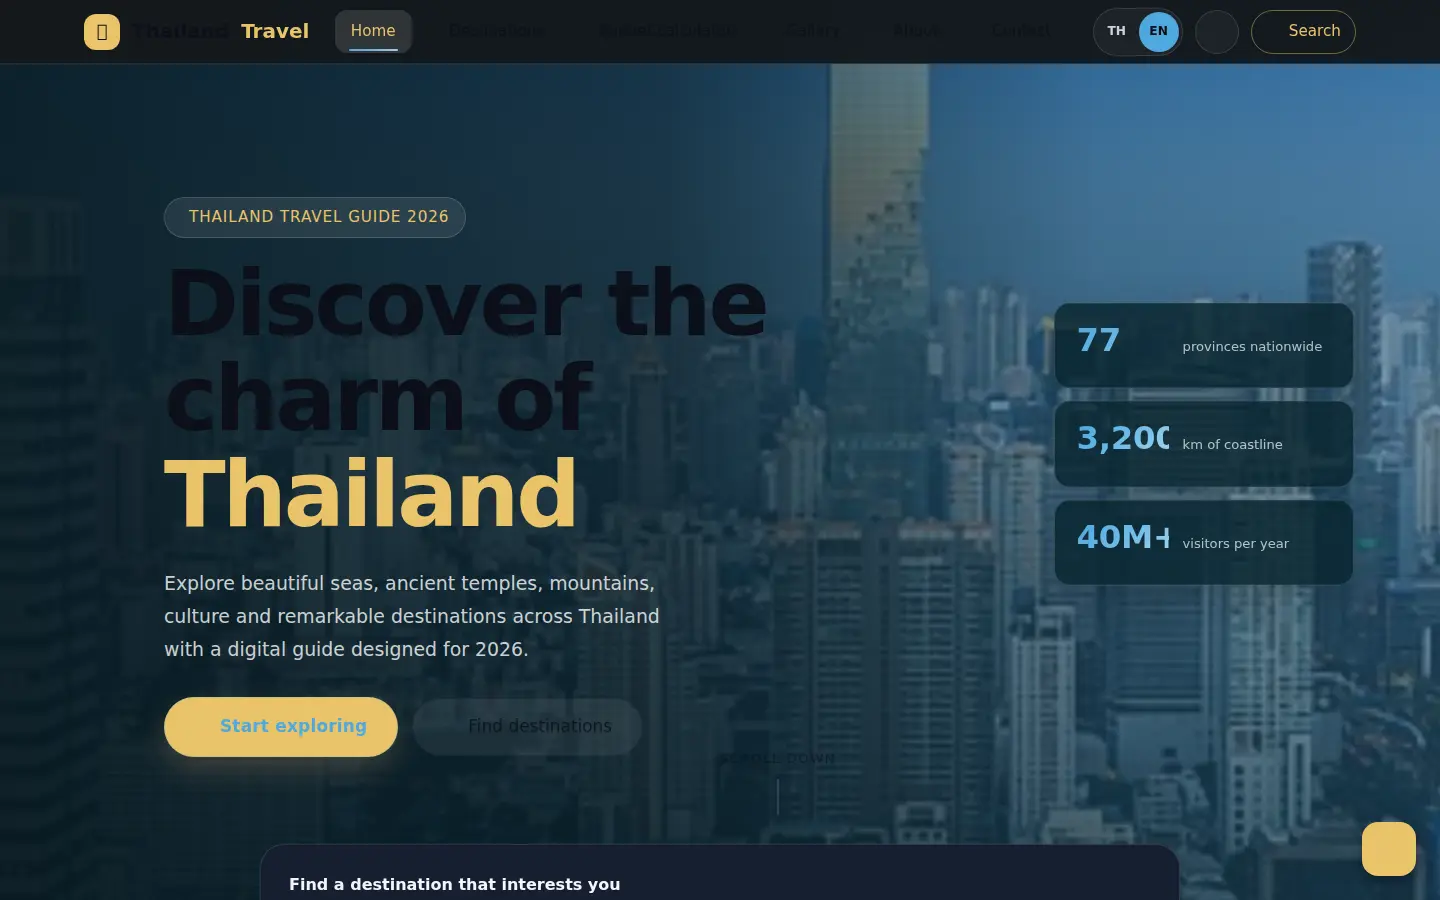
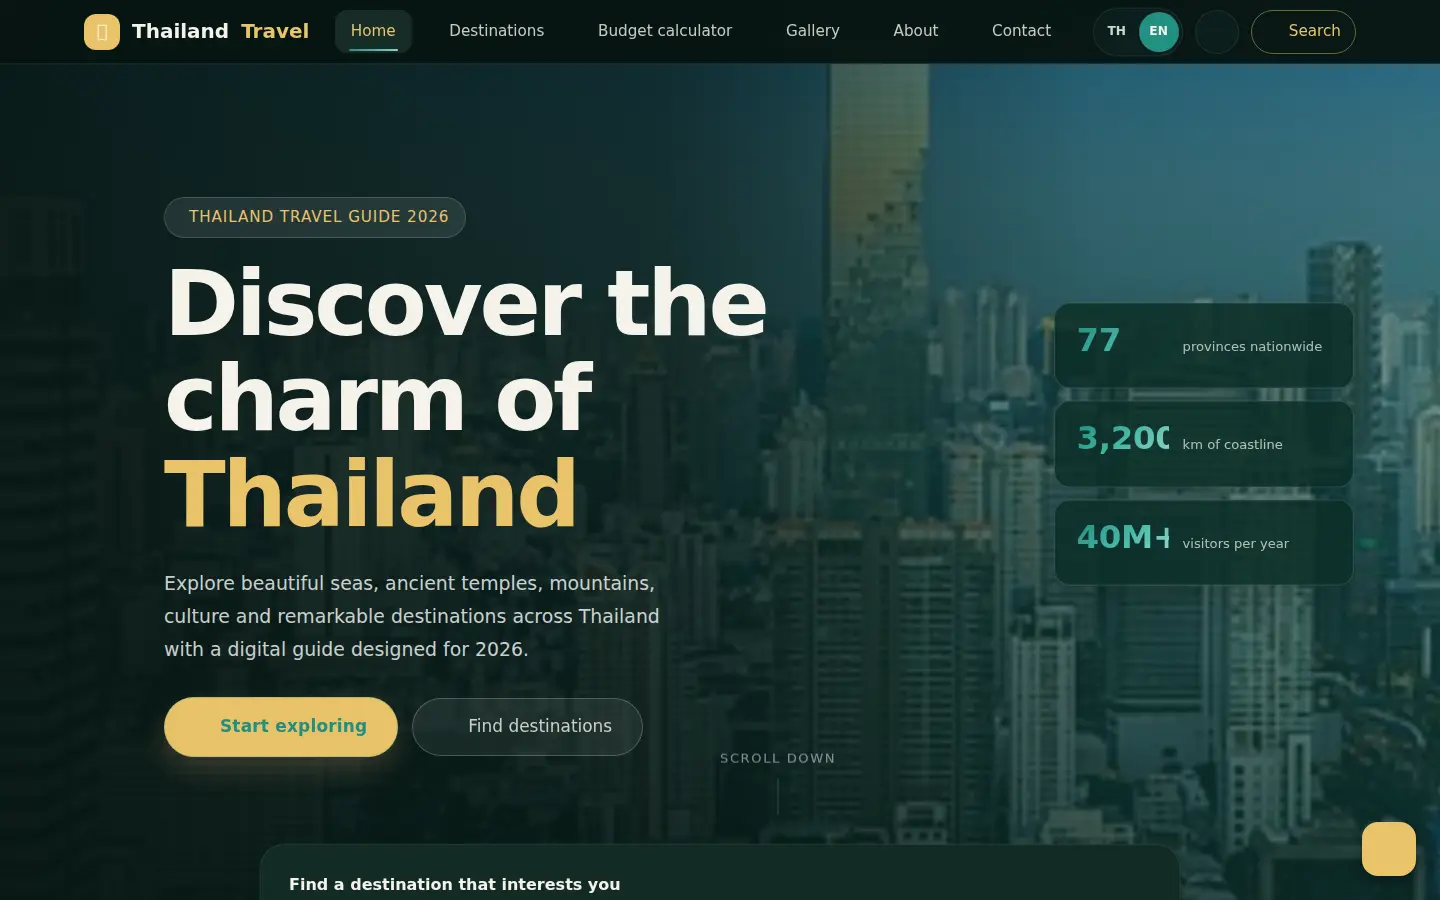
Unify light and dark color system

diff --git a/css/style.css b/css/style.css
@@ -6,9 +6,9 @@
 /* ─── ROOT: LIGHT THEME (default) ──────────────────────────── */
 :root {
   /* ======= TIER 1: BRAND PRIMITIVES (immutable) ======= */
-  --color-emerald-dark:   #0A9396;
-  --color-emerald-base:   #18A7AA;
-  --color-emerald-light:  #57C6C8;
+  --color-emerald-dark:   #0B6B66;
+  --color-emerald-base:   #0F8179;
+  --color-emerald-light:  #68BBB0;
 
   --color-gold-base:      #D4A373;
   --color-gold-light:     #E2B88F;
@@ -49,19 +49,19 @@
   /* ======= TIER 4: TEXT & FOREGROUND (improved contrast) ======= */
   /* Light mode text hierarchy — stronger contrast for accessibility */
   --color-text-primary:   #1A1C1E;   /* HIGH CONTRAST */
-  --color-text-secondary: #454B52;   /* body/support */
-  --color-text-tertiary:  #76808A;   /* subtle labels */
+  --color-text-secondary: #3F4B49;   /* body/support */
+  --color-text-tertiary:  #66736F;   /* subtle labels */
 
-  --color-text-disabled:  #B2BAC4;   /* New: subtle interactive disabled state */
+  --color-text-disabled:  #98A39F;   /* New: subtle interactive disabled state */
   --color-text-inverse:   #FFFFFF;   /* New: text on dark backgrounds */
 
   /* ======= TIER 5: OVERLAYS & GLASS EFFECTS ======= */
   /* Theme-aware glass effects (emerald-tinted light) */
-  --color-overlay-xs:     rgba(10,147,150,.04);
-  --color-overlay-sm:     rgba(10,147,150,.08);
-  --color-overlay-md:     rgba(10,147,150,.14);
-  --color-overlay-lg:     rgba(10,147,150,.22);
-  --color-overlay-xl:     rgba(10,147,150,.35);
+  --color-overlay-xs:     rgba(11,107,102,.04);
+  --color-overlay-sm:     rgba(11,107,102,.08);
+  --color-overlay-md:     rgba(11,107,102,.14);
+  --color-overlay-lg:     rgba(11,107,102,.22);
+  --color-overlay-xl:     rgba(11,107,102,.35);
 
   /* Scrim/darkening overlays */
   --color-scrim-md:       rgba(11,15,25,.65);
@@ -72,12 +72,12 @@
   --color-border-light:   var(--color-overlay-sm);
   --color-border-focus:   var(--color-primary);
 
-  --color-focus-ring:     rgba(10,147,150,.20);
+  --color-focus-ring:     rgba(11,107,102,.20);
 
   /* ======= TIER 7: GRADIENTS ======= */
-  --gradient-primary:     linear-gradient(135deg, #0A9396 0%, #18A7AA 55%, #57C6C8 100%);
+  --gradient-primary:     linear-gradient(135deg, #0B6B66 0%, #0F8179 55%, #68BBB0 100%);
   --gradient-secondary:   linear-gradient(135deg, #E2B88F 0%, #D4A373 100%);
-  --gradient-hero-overlay: linear-gradient(135deg, rgba(11,15,25,.80) 0%, rgba(11,15,25,.45) 55%, rgba(10,147,150,.20) 100%);
+  --gradient-hero-overlay: linear-gradient(135deg, rgba(7,24,21,.84) 0%, rgba(7,24,21,.50) 55%, rgba(11,107,102,.20) 100%);
   --gradient-card-overlay: linear-gradient(180deg, transparent 18%, rgba(11,15,25,.88) 100%);
 
   /* ======= TIER 8: SHADOWS ======= */
@@ -93,8 +93,8 @@
   --shadow-xl:    var(--shadow-5);
 
   /* Glow effects for interactive elements */
-  --shadow-focus: 0 0 0 3px rgba(10,147,150,.16);
-  --shadow-glow:  0 8px 24px rgba(10,147,150,.18);
+  --shadow-focus: 0 0 0 3px rgba(11,107,102,.16);
+  --shadow-glow:  0 8px 24px rgba(11,107,102,.18);
 
   /* ======= TIER 9: RADIUS & LAYOUT ======= */
   --radius-2xs: 2px;
@@ -245,18 +245,18 @@
   --scrim-lg:       var(--color-scrim-lg);
 
   /* Color-specific rgba helpers for components */
-  --accent-04:  rgba(10,147,150,.04);
-  --accent-07:  rgba(10,147,150,.07);
-  --accent-08:  rgba(10,147,150,.08);
-  --accent-12:  rgba(10,147,150,.12);
-  --accent-14:  rgba(10,147,150,.14);
-  --accent-20:  rgba(10,147,150,.20);
-  --accent-25:  rgba(10,147,150,.25);
-  --accent-28:  rgba(10,147,150,.28);
-  --accent-30:  rgba(10,147,150,.30);
-  --accent-35:  rgba(10,147,150,.35);
-  --accent-40:  rgba(10,147,150,.40);
-  --accent-45:  rgba(10,147,150,.45);
+  --accent-04:  rgba(11,107,102,.04);
+  --accent-07:  rgba(11,107,102,.07);
+  --accent-08:  rgba(11,107,102,.08);
+  --accent-12:  rgba(11,107,102,.12);
+  --accent-14:  rgba(11,107,102,.14);
+  --accent-20:  rgba(11,107,102,.20);
+  --accent-25:  rgba(11,107,102,.25);
+  --accent-28:  rgba(11,107,102,.28);
+  --accent-30:  rgba(11,107,102,.30);
+  --accent-35:  rgba(11,107,102,.35);
+  --accent-40:  rgba(11,107,102,.40);
+  --accent-45:  rgba(11,107,102,.45);
 
   --blue:           #4EA8DE;
   --blue-14:        rgba(78,168,222,.14);
@@ -281,10 +281,10 @@
 
 /* ─── DARK THEME ─────────────────────────────────────────── */
 html[data-theme="dark"] {
-  /* ======= BRAND COLORS: brightened for dark context ======= */
-  --color-emerald-dark:   #4EA8DE;
-  --color-emerald-base:   #70BCE7;
-  --color-emerald-light:  #9ED4EF;
+  /* ======= BRAND COLORS: emerald remains the identity in both modes ======= */
+  --color-emerald-dark:   #238F82;
+  --color-emerald-base:   #49B9A9;
+  --color-emerald-light:  #8BD8CC;
 
   --color-gold-base:      #E9C46A;
   --color-gold-light:     #F1D38F;
@@ -314,27 +314,27 @@ html[data-theme="dark"] {
   --chart-blue:           var(--blue);
 
   /* ======= DARK SURFACES ======= */
-  --color-bg-primary:     #0B0F19;   /* dark page bg */
-  --color-bg-secondary:   #10182A;   /* dark sections */
-  --color-bg-tertiary:    #161F30;   /* dark cards */
+  --color-bg-primary:     #071512;   /* deep emerald ink */
+  --color-bg-secondary:   #0C1E1A;   /* dark sections */
+  --color-bg-tertiary:    #132A24;   /* dark cards */
 
-  --color-bg-primary-rgb:   11,15,25;
-  --color-bg-tertiary-rgb:  22,31,48;
+  --color-bg-primary-rgb:   7,21,18;
+  --color-bg-tertiary-rgb:  19,42,36;
 
   /* ======= DARK TEXT (light on dark) ======= */
-  --color-text-primary:   #F4F6F9;   /* HIGH CONTRAST light text */
-  --color-text-secondary: #C9D2E1;   /* muted body text */
-  --color-text-tertiary:  #9FAEC3;   /* subtle labels */
+  --color-text-primary:   #F5F2E9;   /* warm high-contrast text */
+  --color-text-secondary: #CED8D2;   /* muted body text */
+  --color-text-tertiary:  #99ADA6;   /* subtle labels */
 
-  --color-text-disabled:  #6F7E94;   /* disabled state */
-  --color-text-inverse:   #0B0F19;   /* text on light backgrounds */
+  --color-text-disabled:  #647B73;   /* disabled state */
+  --color-text-inverse:   #F5F2E9;   /* text on imagery and deep brand surfaces */
 
   /* ======= DARK OVERLAYS (light tinted) ======= */
-  --color-overlay-xs:     rgba(255,255,255,.04);
-  --color-overlay-sm:     rgba(255,255,255,.07);
-  --color-overlay-md:     rgba(255,255,255,.12);
-  --color-overlay-lg:     rgba(255,255,255,.18);
-  --color-overlay-xl:     rgba(255,255,255,.25);
+  --color-overlay-xs:     rgba(139,216,204,.04);
+  --color-overlay-sm:     rgba(139,216,204,.07);
+  --color-overlay-md:     rgba(139,216,204,.12);
+  --color-overlay-lg:     rgba(139,216,204,.18);
+  --color-overlay-xl:     rgba(139,216,204,.25);
 
   /* Dark scrims */
   --color-scrim-md:       rgba(4,9,8,.75);
@@ -345,13 +345,13 @@ html[data-theme="dark"] {
   --color-border-light:   var(--color-overlay-sm);
   --color-border-focus:   var(--color-primary);
 
-  --color-focus-ring:     rgba(78,168,222,.24);
+  --color-focus-ring:     rgba(73,185,169,.24);
 
   /* ======= DARK GRADIENTS ======= */
-  --gradient-primary:     linear-gradient(135deg, #4EA8DE 0%, #70BCE7 55%, #9ED4EF 100%);
+  --gradient-primary:     linear-gradient(135deg, #238F82 0%, #49B9A9 55%, #8BD8CC 100%);
   --gradient-secondary:   linear-gradient(135deg, #F1D38F 0%, #E9C46A 100%);
-  --gradient-hero-overlay: linear-gradient(135deg, rgba(11,15,25,.88) 0%, rgba(11,15,25,.55) 55%, rgba(78,168,222,.18) 100%);
-  --gradient-card-overlay: linear-gradient(180deg, transparent 18%, rgba(11,15,25,.90) 100%);
+  --gradient-hero-overlay: linear-gradient(135deg, rgba(7,21,18,.90) 0%, rgba(7,21,18,.60) 55%, rgba(35,143,130,.18) 100%);
+  --gradient-card-overlay: linear-gradient(180deg, transparent 18%, rgba(7,21,18,.92) 100%);
 
   /* ======= DARK SHADOWS ======= */
   --shadow-1:     0 2px 6px rgba(0,0,0,.35);
@@ -365,22 +365,22 @@ html[data-theme="dark"] {
   --shadow-lg:    var(--shadow-4);
   --shadow-xl:    var(--shadow-5);
 
-  --shadow-focus: 0 0 0 3px rgba(78,168,222,.22);
-  --shadow-glow:  0 8px 24px rgba(78,168,222,.24);
+  --shadow-focus: 0 0 0 3px rgba(73,185,169,.22);
+  --shadow-glow:  0 8px 24px rgba(73,185,169,.24);
 
   /* Update re-calibrated accent-rgba helpers for dark context */
-  --accent-04:  rgba(78,168,222,.04);
-  --accent-07:  rgba(78,168,222,.07);
-  --accent-08:  rgba(78,168,222,.08);
-  --accent-12:  rgba(78,168,222,.12);
-  --accent-14:  rgba(78,168,222,.14);
-  --accent-20:  rgba(78,168,222,.20);
-  --accent-25:  rgba(78,168,222,.25);
-  --accent-28:  rgba(78,168,222,.28);
-  --accent-30:  rgba(78,168,222,.30);
-  --accent-35:  rgba(78,168,222,.35);
-  --accent-40:  rgba(78,168,222,.40);
-  --accent-45:  rgba(78,168,222,.45);
+  --accent-04:  rgba(73,185,169,.04);
+  --accent-07:  rgba(73,185,169,.07);
+  --accent-08:  rgba(73,185,169,.08);
+  --accent-12:  rgba(73,185,169,.12);
+  --accent-14:  rgba(73,185,169,.14);
+  --accent-20:  rgba(73,185,169,.20);
+  --accent-25:  rgba(73,185,169,.25);
+  --accent-28:  rgba(73,185,169,.28);
+  --accent-30:  rgba(73,185,169,.30);
+  --accent-35:  rgba(73,185,169,.35);
+  --accent-40:  rgba(73,185,169,.40);
+  --accent-45:  rgba(73,185,169,.45);
 
   --blue:           #4EA8DE;
   --blue-14:        rgba(78,168,222,.14);

diff --git a/css/components.css b/css/components.css
@@ -2621,7 +2621,7 @@ a:focus-visible {
 }
 
 #page-home > .hero .stat-label {
-  color: color-mix(in srgb, var(--color-text-primary) 72%, transparent);
+  color: color-mix(in srgb, var(--color-text-inverse) 72%, transparent);
 }
 
 /* ─── 49. EXPERIENCE EXPLORER ART DIRECTION (CATEGORIES ONLY) ─── */
@@ -2986,8 +2986,8 @@ html[data-theme="dark"] .gallery-view-all {
 
 #page-home > .home-hero .hero-overlay {
   background:
-    linear-gradient(90deg, rgba(7, 24, 31, 0.92) 0%, rgba(7, 24, 31, 0.75) 46%, rgba(7, 24, 31, 0.28) 76%, rgba(7, 24, 31, 0.2) 100%),
-    linear-gradient(0deg, rgba(7, 24, 31, 0.42), transparent 48%);
+    linear-gradient(90deg, rgba(7, 21, 18, 0.94) 0%, rgba(7, 21, 18, 0.78) 46%, rgba(7, 21, 18, 0.32) 76%, rgba(7, 21, 18, 0.22) 100%),
+    linear-gradient(0deg, rgba(7, 21, 18, 0.46), transparent 48%);
 }
 
 #page-home > .home-hero .hero-content {
@@ -3050,7 +3050,7 @@ html[data-theme="dark"] .gallery-view-all {
   align-items: center;
   gap: 14px;
   padding: 20px 22px;
-  background: rgba(9, 37, 46, 0.58);
+  background: rgba(12, 46, 40, 0.62);
   border-color: rgba(255, 255, 255, 0.14);
   box-shadow: 0 18px 50px rgba(0, 0, 0, 0.18);
 }
@@ -3085,7 +3085,7 @@ html[data-theme="dark"] .gallery-view-all {
   border-radius: 24px;
   background: color-mix(in srgb, var(--color-bg-tertiary) 95%, transparent);
   border: 1px solid var(--color-border-default);
-  box-shadow: 0 24px 65px rgba(18, 38, 43, 0.16);
+  box-shadow: 0 24px 65px rgba(7, 21, 18, 0.16);
   backdrop-filter: blur(20px);
 }
 
@@ -3376,16 +3376,16 @@ html[data-theme="light"] .navbar {
 }
 
 html[data-theme="dark"] .navbar {
-  background: rgba(20, 24, 28, 0.97);
+  background: rgba(7, 21, 18, 0.97);
 }
 
 #page-home > .home-search-panel .search-bar-inner {
   background: var(--color-bg-tertiary);
-  box-shadow: 0 18px 46px rgba(18, 38, 43, 0.12);
+  box-shadow: 0 18px 46px rgba(7, 21, 18, 0.12);
 }
 
 #page-home > .home-hero .hero-stat-card {
-  background: rgba(9, 37, 46, 0.82);
+  background: rgba(12, 46, 40, 0.86);
 }
 
 #page-home > .home-featured-section .dest-card,

diff --git a/tests/site.spec.js b/tests/site.spec.js
@@ -23,6 +23,42 @@ test.beforeEach(async ({ page }) => {
   await page.waitForFunction(() => window.I18N && window.showPage);
 });
 
+test("light and dark themes keep one emerald-and-gold identity", async ({ page }) => {
+  const snapshot = theme => page.evaluate(selectedTheme => {
+    window.applyTheme(selectedTheme);
+    const root = getComputedStyle(document.documentElement);
+    const read = token => root.getPropertyValue(token).trim().toUpperCase();
+    return {
+      primary: read("--color-emerald-dark"),
+      gold: read("--color-gold-base"),
+      surface: read("--color-bg-primary"),
+      inverse: read("--color-text-inverse"),
+      navColor: getComputedStyle(document.querySelector(".nav-logo")).color,
+      heroColor: getComputedStyle(document.querySelector(".hero-title")).color
+    };
+  }, theme);
+
+  const light = await snapshot("light");
+  expect(light).toEqual({
+    primary: "#0B6B66",
+    gold: "#D4A373",
+    surface: "#F9F8F6",
+    inverse: "#FFFFFF",
+    navColor: "rgb(26, 28, 30)",
+    heroColor: "rgb(255, 255, 255)"
+  });
+
+  const dark = await snapshot("dark");
+  expect(dark).toEqual({
+    primary: "#238F82",
+    gold: "#E9C46A",
+    surface: "#071512",
+    inverse: "#F5F2E9",
+    navColor: "rgb(245, 242, 233)",
+    heroColor: "rgb(245, 242, 233)"
+  });
+});
+
 test("all pages stay English after a live language switch", async ({ page }) => {
   await page.evaluate(() => window.I18N.setLanguage("en"));
 

diff --git a/docs/AI_MEMORY.md b/docs/AI_MEMORY.md
@@ -25,6 +25,7 @@
 - The Destinations route can filter the existing local favorites list, updates saved counts live and provides bilingual empty states
 - A project-local maintainer skill and `npm run verify` encode the repository workflow for compatible AI agents and contributors
 - The repository README presents the live site, real responsive screenshots, architecture, verification workflow and honest 5/77 attraction-verification status
+- Light and Dark Mode now share one emerald-and-temple-gold identity; Dark Mode uses deep emerald ink surfaces and warm readable foregrounds instead of the former blue/navy remap
 
 ## Source-of-truth map
 - `AGENTS.md`: agent rules and definition of done
@@ -56,6 +57,7 @@
 - No checkpoints, terminal probes, retired bundles, raw province JPGs or orphan extended-gallery assets
 
 ## Automated Phase Log
+- 2026-08-15 · Unified two-mode color system · Aligned both themes to emerald/gold, fixed dark-on-dark Navbar/Hero text and passed 48 browser checks
 - 2026-08-15 · Portfolio README · Added real Desktop/Mobile screenshots, live demo, feature/technology/setup documentation and transparent coverage status
 - 2026-08-14 · Project intelligence and saved destinations · Added a project-local maintainer skill, full verification command and bilingual favorites filter; 44 browser checks passed
 - 2026-08-08 · Trip budget calculator · Replaced sample promotions with user-entered cost calculations and retained the existing route for compatibility

diff --git a/CHANGELOG.md b/CHANGELOG.md
@@ -1,5 +1,13 @@
 # Changelog
 
+## 2026-08-15 — Unified two-mode color system
+- Unified Light and Dark Mode around one emerald-and-temple-gold identity instead of switching the dark theme to an unrelated blue palette.
+- Replaced navy Dark Mode surfaces with deep emerald ink, warm neutral text and emerald-tinted interactive overlays.
+- Fixed the Dark Mode inverse-text token that made the Navbar and Hero text render dark on dark backgrounds.
+- Aligned hardcoded Home hero, statistic-card, navigation and shadow colors with the shared semantic palette.
+- Added a four-viewport Playwright regression for both theme palettes and key Navbar/Hero foreground colors; all 48 browser checks pass.
+- Refreshed the README screenshots to show the corrected Desktop Dark Mode and Mobile Light Mode.
+
 ## 2026-08-15 — Portfolio README
 - Added a portfolio-grade repository README with the live site, project scope, feature summary, technology stack, local setup and verification commands.
 - Added real Desktop Dark Mode and Mobile Light Mode screenshots captured from the current site.

diff --git a/docs/TODO.md b/docs/TODO.md
@@ -20,6 +20,7 @@
 - [x] Add a bilingual saved-destination filter backed by the existing favorites storage
 - [x] Add a project-local AI skill and one-command full verification workflow
 - [x] Add a portfolio-grade README with real Desktop/Mobile screenshots, live demo, setup guide and transparent data status
+- [x] Unify Light/Dark colors around one emerald-and-gold identity and lock key theme foregrounds with browser regression tests
 
 ## Next phase
 - [ ] Verify attraction records for the remaining 72 provinces in small source-reviewed batches
